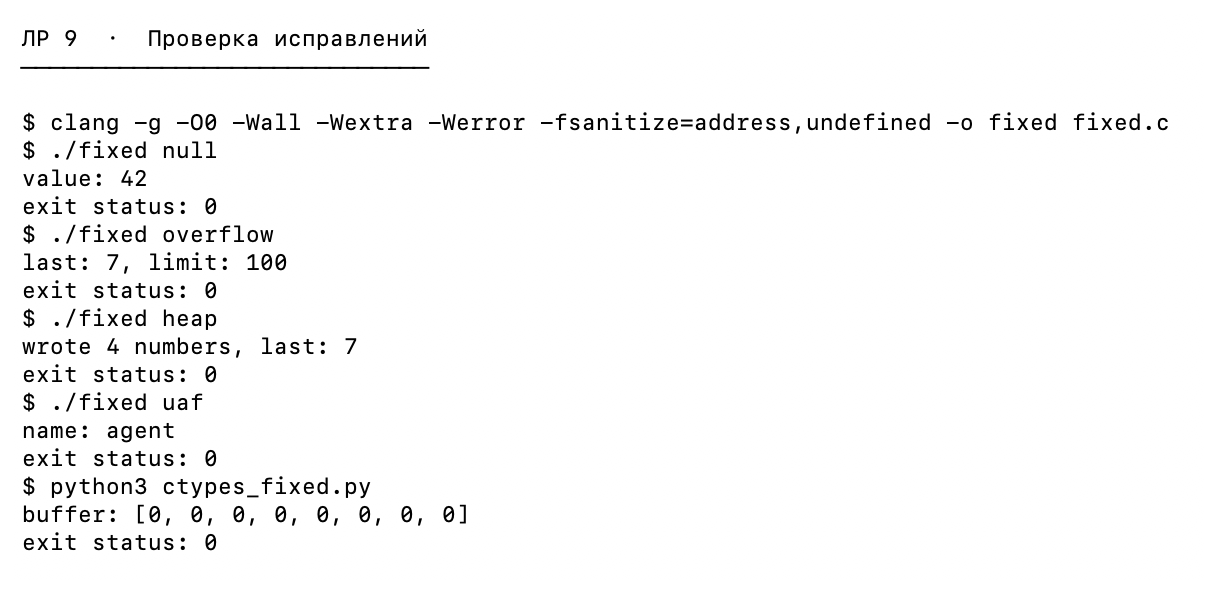
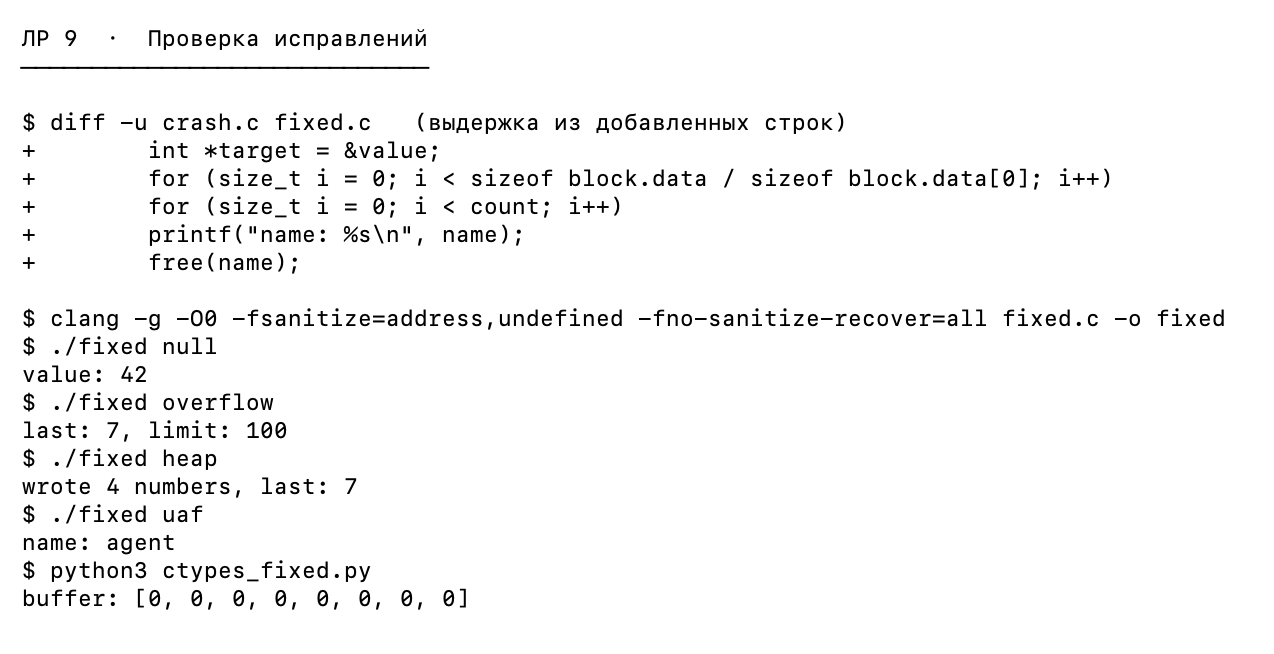
ЛР 9: статический анализ и проверка исправлений на macOS

diff --git a/labs/09-crash/report.md b/labs/09-crash/report.md
@@ -13,6 +13,12 @@ macOS 27.0, Apple Silicon, Apple clang 21.0.0. Проверены исправл
 
 Исправленная программа собрана с AddressSanitizer и UndefinedBehaviorSanitizer. Все четыре запуска завершились с кодом 0, диагностик санитайзеров не было. Исправленный вариант Python также вернул 0.
 
+## Что показал статический анализ
+
+На исходном crash.c анализатор Apple Clang выдал два предупреждения. В строке 8 он обнаружил запись через нулевой указатель (core.NullDereference), в строке 33 — чтение после освобождения памяти (unix.Malloc). Для fixed.c тот же анализатор завершился без предупреждений. Два случая выхода за границу массива в результатах этого запуска отсутствовали.
+
+Выход за границу объекта может затронуть доступную страницу памяти. Защита страниц в таком случае сама по себе не обнаруживает ошибку, а поведение программы остаётся неопределённым. При вызове C через ctypes нативная функция работает в том же процессе, что и интерпретатор Python. Ошибка доступа может завершить весь процесс до возврата управления в Python.
+
 **Статус исходных опытов.** Снимки падения C, падения Python и диагностики исходной программы под AddressSanitizer отсутствуют. Код завершения исходных примеров, запись системного журнала и фактические строки диагностики в этом запуске не измерялись. Выполнена часть с исправлением.
 
 ## Снимки терминала
